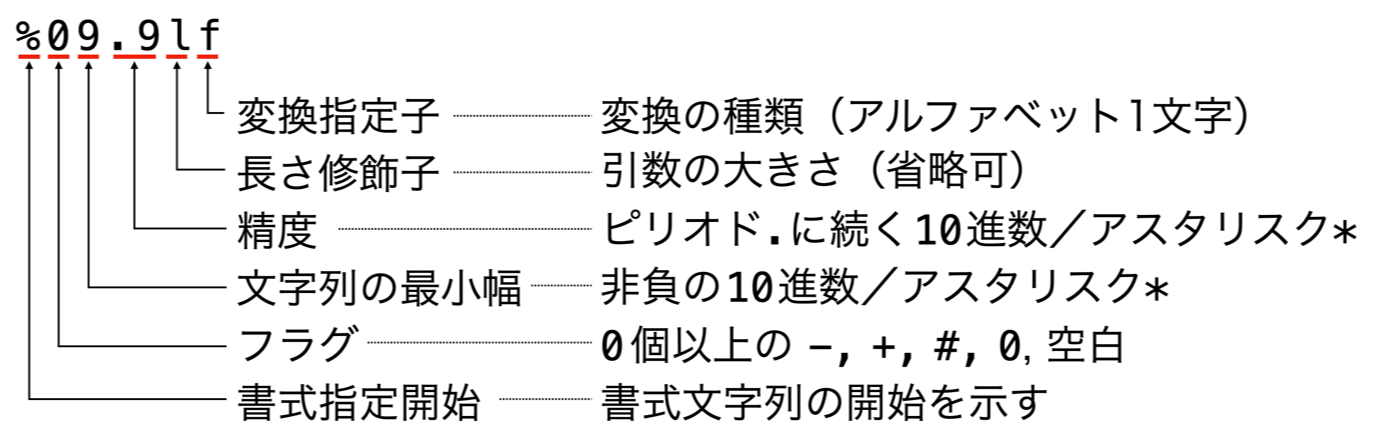
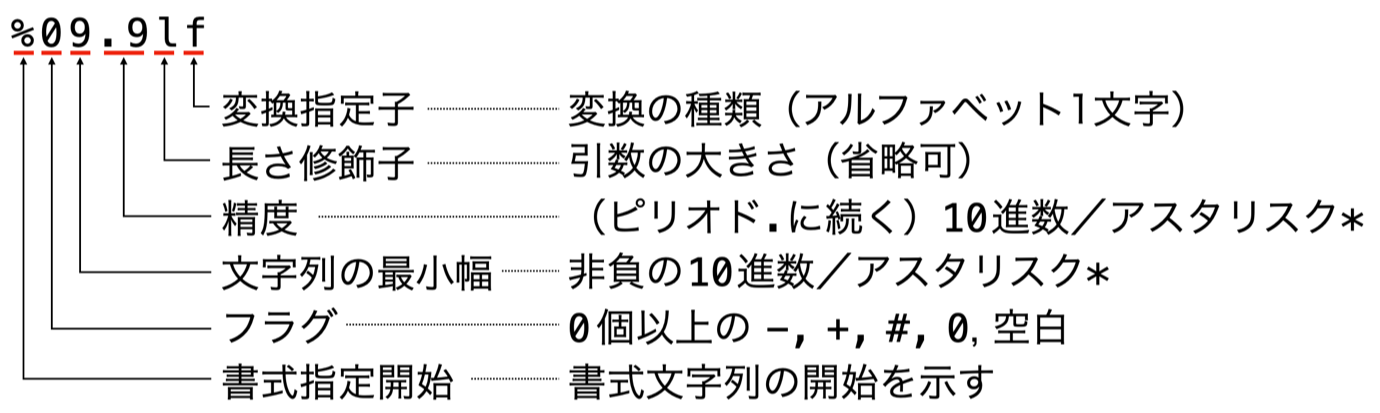
Update post.

Changed region(s): [[0.0, 0.0291, 1.0, 0.9879]]

diff --git a/2024/04/14/printf-for-arduino-uno-r4.html b/2024/04/14/printf-for-arduino-uno-r4.html
@@ -132,7 +132,7 @@
 
 <p><code class="language-plaintext highlighter-rouge">printf()</code> や <code class="language-plaintext highlighter-rouge">scanf()</code> で押さえるべき書式文字列のフォーマットは次の通りです。</p>
 
-<p><img src="/images/2024/04-14/printf-format.png" alt="`printf()` や `scanf()` の書式" title="printf() や scanf() の書式" class="simple" width="1375" height="440"></p>
+<p><img src="/images/2024/04-14/printf-format.png" alt="`printf()` や `scanf()` の書式" title="printf() や scanf() の書式" class="simple" width="1380" height="413"></p>
 
 <p>厳密な書式指定仕様はそれなりのボリュームになり、ここには書ききれません。簡潔にまとめてくれている次のようなサイトがオススメです。</p>
 
